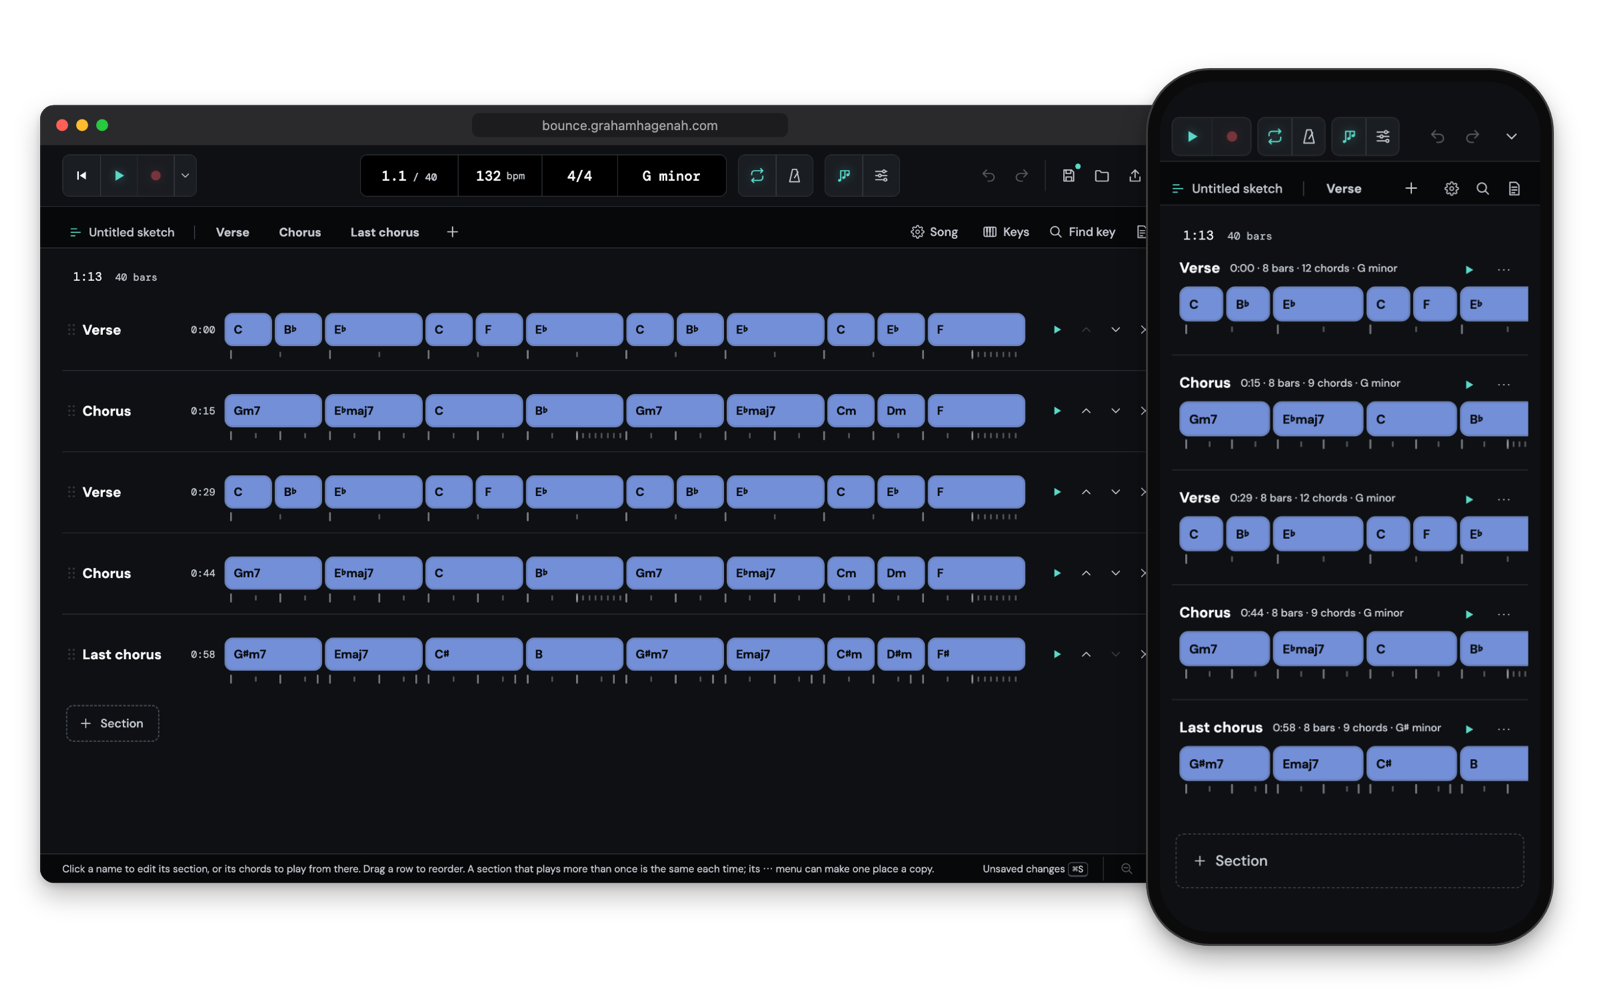
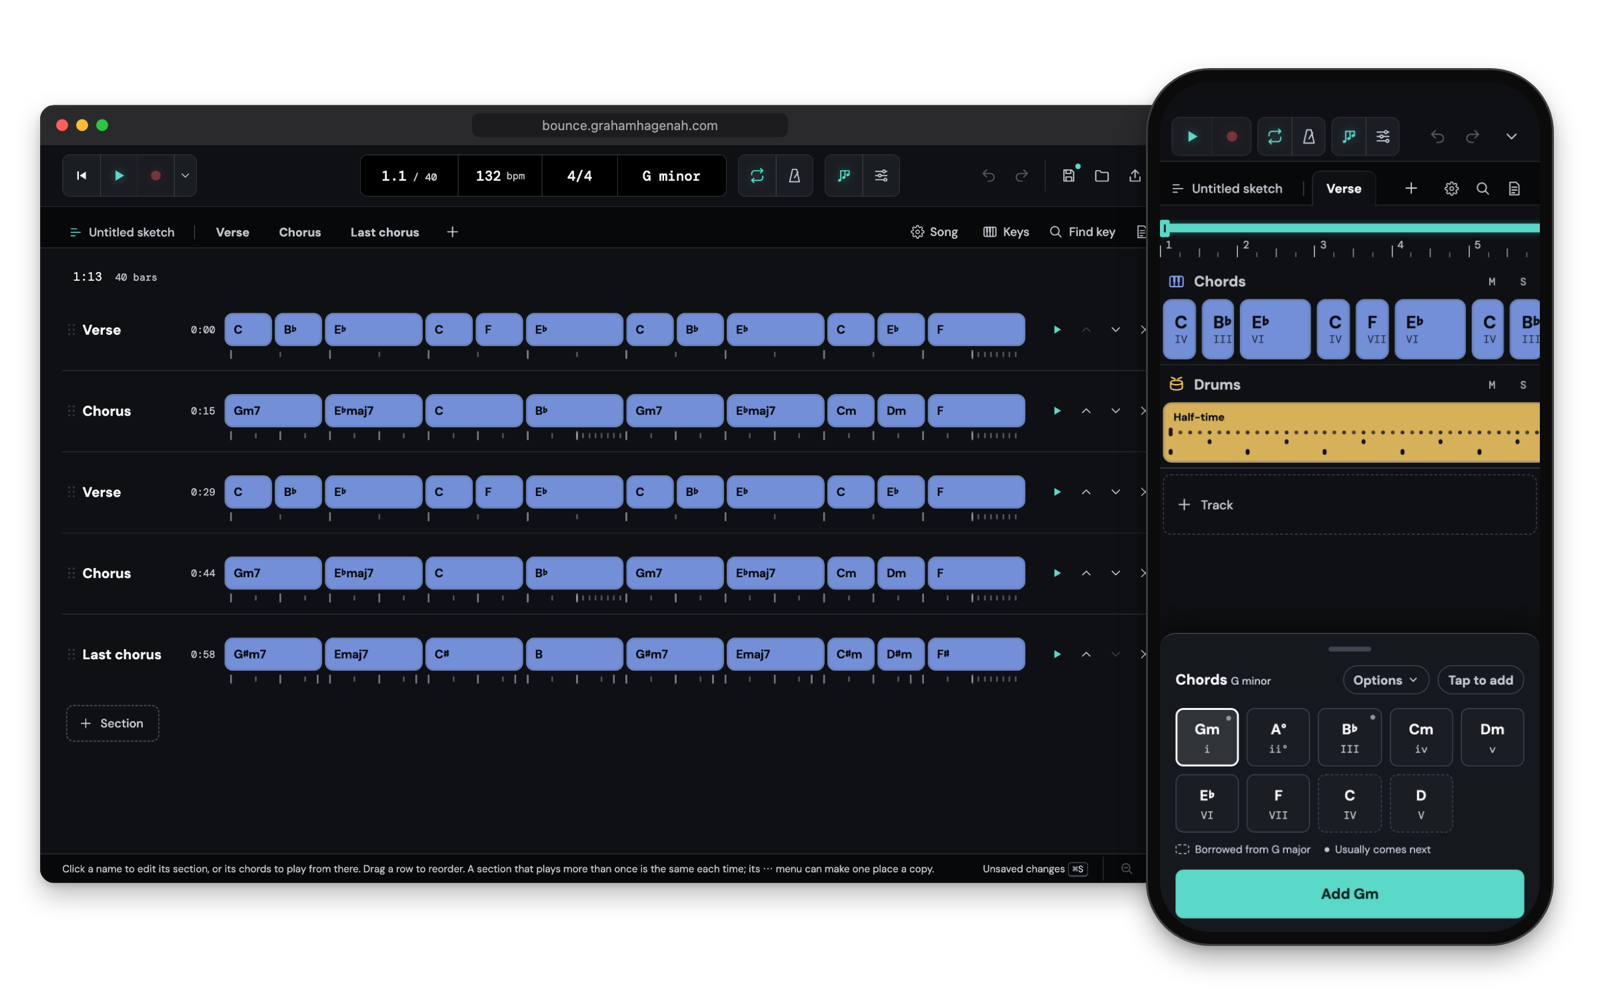
Bounce mockup: the verse timeline on the phone

Changed region(s): [[0.7188, 0.217, 0.9688, 0.558], [0.7188, 0.589, 0.9688, 0.93]]

diff --git a/content/Index.md b/content/Index.md
@@ -30,7 +30,7 @@ Noteworthy projects I've built on my own time, from 2021 to 2026. Most are writt
 </a>
 <a class="link-button project-case" href="/flow-sequencer">Read the case study →</a>
 <a class="project" href="https://bounce.grahamhagenah.com/">
-<img class="mockup" src="/screenshots/bounce.png" alt="Bounce in a desktop browser window, its song sections laid out as rows of chord blocks, beside the same song on a phone, where the rows stack to fit the narrow screen">
+<img class="mockup" src="/screenshots/bounce.png" alt="Bounce in a desktop browser window, its song sections laid out as rows of chord blocks, beside a phone open to the verse: its chords and drums on a timeline, and below them the chords of G minor to tap and add">
 <h3>Bounce <span class="project-year">2026</span></h3>
 <p>A sketchpad for song demos in the browser: pick a key, build a chord progression, and loop it.</p>
 <p class="project-tech">React · TypeScript · Tone.js · Zustand · IndexedDB</p>

diff --git a/content/Projects.md b/content/Projects.md
@@ -20,7 +20,7 @@ Noteworthy projects I've built on my own time, from 2021 to 2026. Most are writt
 </a>
 <a class="link-button project-case" href="/flow-sequencer">Read the case study →</a>
 <a class="project" href="https://bounce.grahamhagenah.com/">
-<img class="mockup" src="/screenshots/bounce.png" alt="Bounce in a desktop browser window, its song sections laid out as rows of chord blocks, beside the same song on a phone, where the rows stack to fit the narrow screen">
+<img class="mockup" src="/screenshots/bounce.png" alt="Bounce in a desktop browser window, its song sections laid out as rows of chord blocks, beside a phone open to the verse: its chords and drums on a timeline, and below them the chords of G minor to tap and add">
 <h2>Bounce <span class="project-year">2026</span></h2>
 <p>A sketchpad for song demos in the browser: pick a key, build a chord progression, and loop it.</p>
 <p class="project-tech">React · TypeScript · Tone.js · Zustand · IndexedDB</p>
